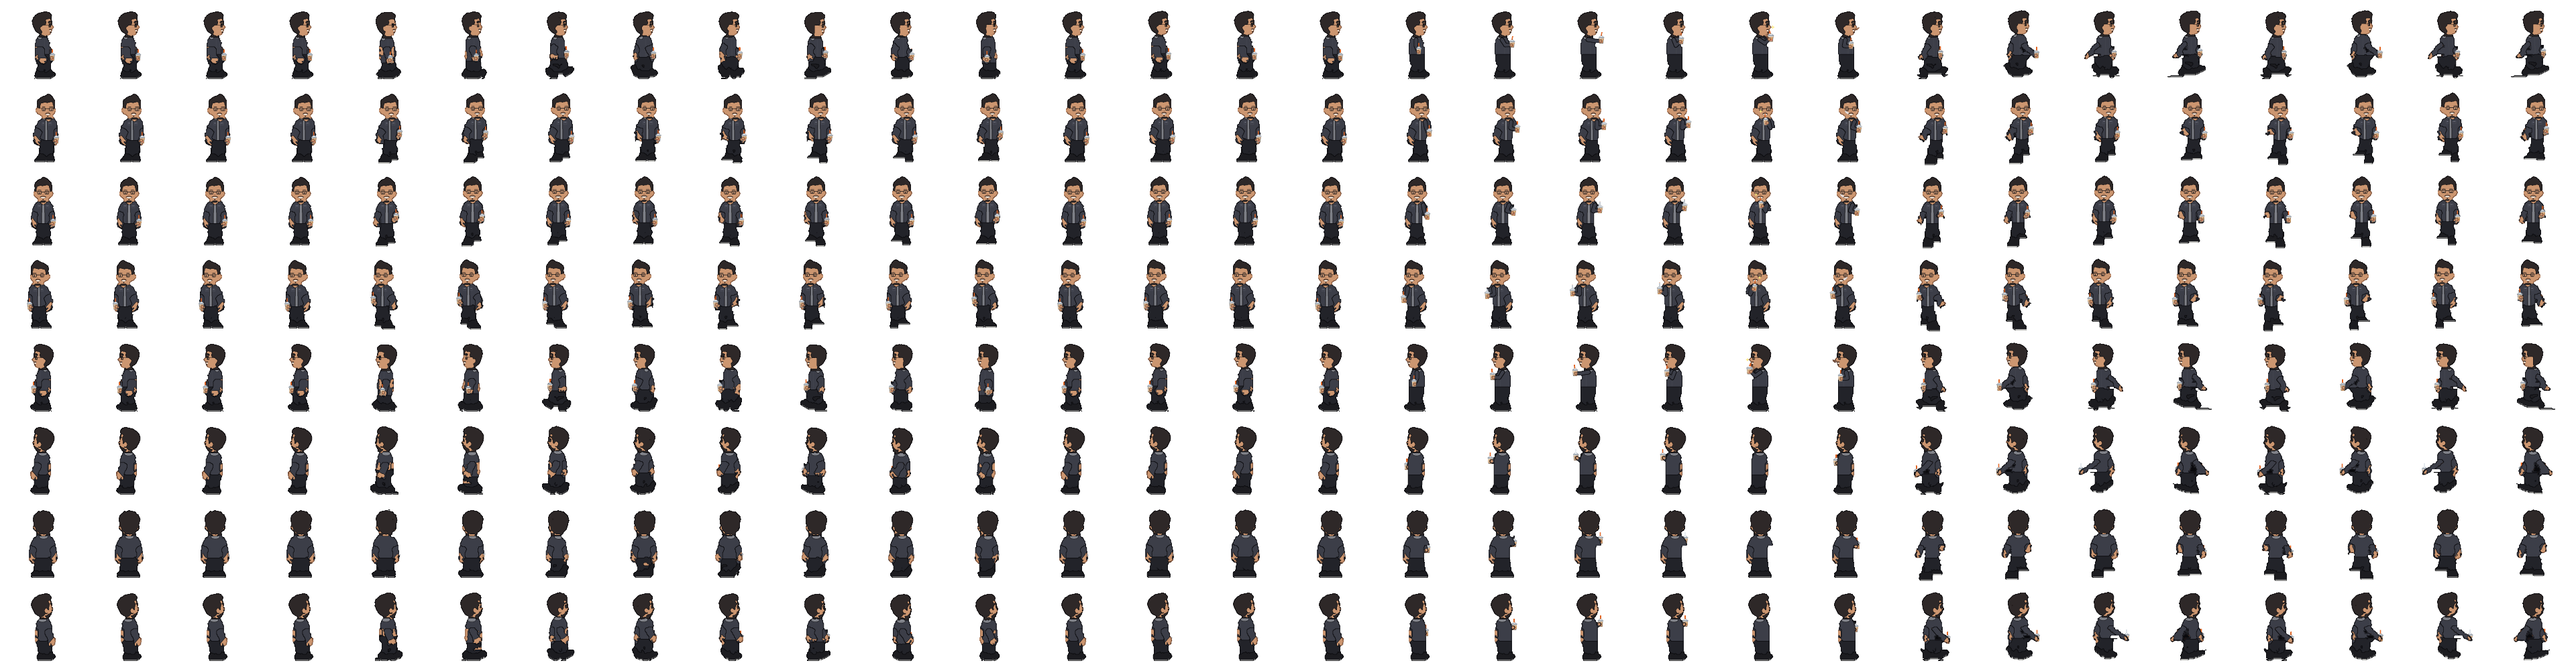
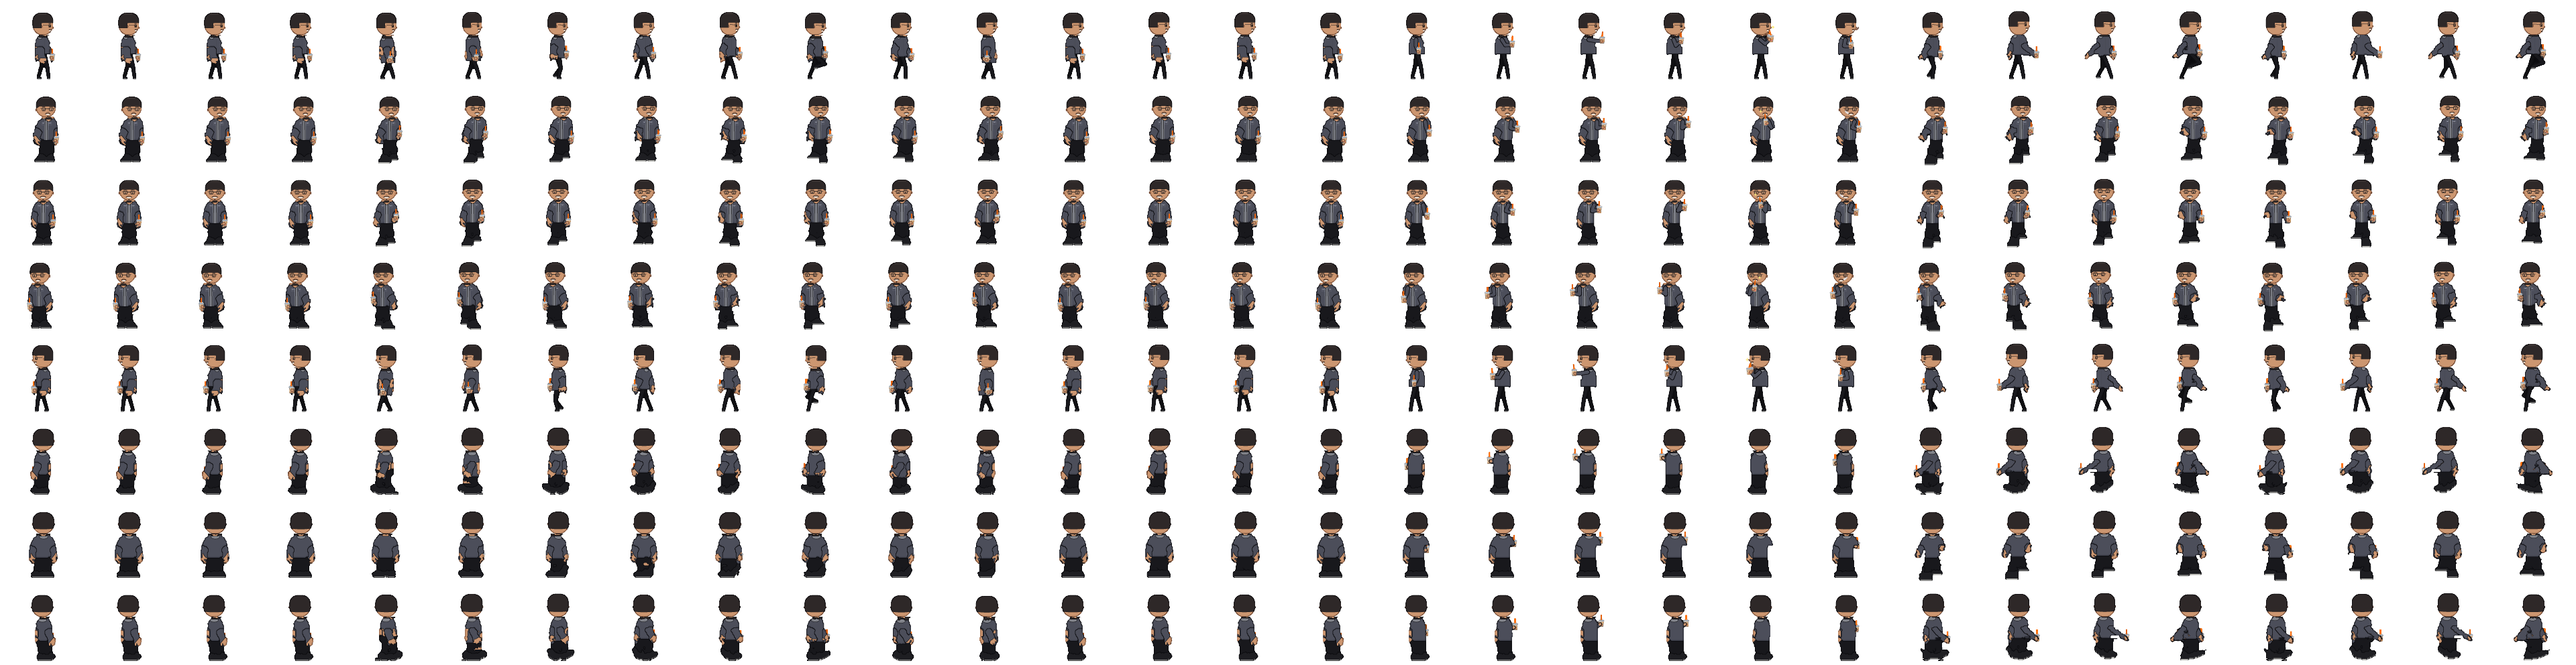
Billy: clean profile legs, adult head, orange straw, jacket/pants split, tag lean

diff --git a/phaser-tag-client/tools/make_billy_skin.py b/phaser-tag-client/tools/make_billy_skin.py
@@ -65,10 +65,10 @@ COL = {
     HAIR: (46, 40, 40),
     SKIN: (204, 150, 112),
     HAND: (204, 150, 112),
-    SLEEVE: (60, 62, 72),
-    JACKET: (60, 62, 72),
-    PANTS: (34, 35, 41),
-    SHOE: (28, 28, 32),
+    SLEEVE: (76, 78, 90),
+    JACKET: (76, 78, 90),
+    PANTS: (24, 24, 28),
+    SHOE: (30, 30, 34),
 }
 LINE = (10, 10, 13)
 SKIN_LINE = (96, 58, 40)
@@ -76,7 +76,12 @@ SKIN_SHADE = (178, 124, 90)
 SOLE = (240, 240, 234)
 SHIRT = (132, 134, 141)
 SHIRT_DARK = (104, 106, 114)
-POCKET = (78, 80, 92)
+POCKET = (96, 98, 112)
+POCKET_HI = (128, 131, 146)
+ZIP = (170, 173, 182)
+HEM = (62, 64, 75)
+PANTS_BACK = (16, 16, 19)
+HAIR_HI = (70, 62, 60)
 GLASS = (14, 14, 17)
 BROW = (34, 28, 28)
 STACHE = (40, 30, 28)
@@ -88,8 +93,8 @@ COFFEE = (198, 148, 100)
 COFFEE_LIGHT = (222, 190, 150)
 ICE = (234, 240, 244)
 LID = (242, 246, 250)
-STRAW = (244, 112, 40)
-STRAW_LINE = (168, 66, 22)
+STRAW = (255, 116, 18)
+STRAW_LINE = (178, 64, 8)
 LOGO_O = (246, 128, 40)
 LOGO_P = (238, 96, 152)
 PUFF = (252, 252, 254)
@@ -247,6 +252,18 @@ def render_body(lab, wp):
     union = F.sum(0) >= 0.5
     L = F.argmax(0) + 1
     L[~union] = BG
+    # close small notches in the jacket silhouette (between neck and hem)
+    J = np.isin(L, (JACKET, SLEEVE))
+    if J.any():
+        jr = np.nonzero(J.any(1))[0]
+        k = 2 * SS + 1
+        u8 = Image.fromarray((union * 255).astype(np.uint8))
+        closed = np.asarray(u8.filter(ImageFilter.MaxFilter(k)).filter(ImageFilter.MinFilter(k))) > 127
+        band = np.zeros_like(union)
+        band[max(int(S(wp.yn_o + 3)), jr.min()):jr.max() - SS] = True
+        add = closed & ~union & band
+        L[add] = JACKET
+        union |= add
     rgb = np.zeros(X.shape + (3,), np.uint8)
     for k, col in COL.items():
         rgb[L == k] = col
@@ -266,6 +283,154 @@ def render_body(lab, wp):
     sk_out = outline & np.isin(L, (SKIN, HAND))
     rgb[sk_out] = SKIN_LINE
     return L, union, rgb, outline | seam
+
+
+
+# --- adult head (replaces the kid's warped head) ------------------------------------
+def _rbox_sdf(X, Y, cx, cy, hw, hh, r):
+    qx = np.abs(X - cx) - hw + r
+    qy = np.abs(Y - cy) - hh + r
+    return np.hypot(np.maximum(qx, 0), np.maximum(qy, 0)) + np.minimum(np.maximum(qx, qy), 0) - r
+
+
+def rebuild_head(L, rgb, union, direction, wp, eyes_o):
+    """Swap the warped kid head (tall hair peak) for a rounder adult head with
+    short neat hair. Works at SS on L/rgb/union in place; returns the head
+    mask (SS)."""
+    H, W = L.shape
+    Y, X = np.mgrid[0:H, 0:W]
+    Xo, Yo = (X + 0.5) / SS, (Y + 0.5) / SS
+    old = np.isin(L, (HAIR, SKIN)) & (Yo < wp.yn_o)
+    if not old.any():
+        return old
+    widths = old.sum(1)
+    mw = widths.max()
+    rows = np.nonzero(widths >= 0.72 * mw)[0]
+    ys = np.nonzero(old.any(1))[0]
+    top = rows.min() / SS - 1.2
+    bot = ys.max() / SS + 0.3
+    xs = np.nonzero(old[rows].any(0))[0]
+    cxs = [np.nonzero(old[y])[0] for y in rows]
+    cx = float(np.median([(c.min() + c.max() + 1) / 2 for c in cxs])) / SS
+    hw = mw / SS / 2 * 0.97
+    hh = (bot - top) / 2
+    cy = (top + bot) / 2
+    fx = FACE[direction][0]
+    # jaw a touch narrower than the cranium
+    t = np.clip((Yo - cy) / hh, 0, 1)
+    Xs = cx + (Xo - cx) / (1 - 0.13 * t * t)
+    sdf = _rbox_sdf(Xs, Yo, cx, cy, hw, hh, min(hw, hh) * 0.8)
+    head = sdf < 0
+    # erase the old head
+    L[old] = BG
+    union[old] = False
+    if direction in PROFILE:
+        ey = eyes_o[0][1] if eyes_o else top + 0.55 * (bot - top)
+        nose = ((Xo - (cx + fx * (hw + 0.2))) / 1.1) ** 2 + ((Yo - (ey + 2.6)) / 1.4) ** 2 < 1
+        head |= nose
+    hair_cap = _rbox_sdf(Xs, Yo, cx, cy - 0.35, hw + 0.45, hh + 0.65, min(hw, hh) * 0.8) < 0
+    if direction in BACK:
+        hl = top + 0.74 * (bot - top)
+        hair = hair_cap & (Yo < hl + 1.2 * np.cos(np.clip((Xo - cx) / hw, -1, 1) * 1.4))
+        ear_y = top + 0.55 * (bot - top)
+        ears = [(cx - hw - 0.2, ear_y), (cx + hw + 0.2, ear_y)]
+    elif direction in PROFILE:
+        ey = eyes_o[0][1] if eyes_o else top + 0.55 * (bot - top)
+        hl = ey - 4.6
+        back = fx * (Xo - cx) < -hw * 0.15
+        hair = hair_cap & ((Yo < hl + 0.9 * np.clip(-fx * (Xo - cx) / hw, 0, 1)) | (back & (Yo < ey + 3.0)))
+        ears = [(cx - fx * hw * 0.12, ey + 1.0)]
+    else:
+        ey = np.mean([e[1] for e in eyes_o]) if eyes_o else top + 0.55 * (bot - top)
+        hl = ey - 4.7
+        edge = np.clip((np.abs(Xo - (cx + fx * 0.8)) / hw - 0.72) / 0.28, 0, 1)
+        hair = hair_cap & (Yo < hl + 2.6 * edge)
+        ears = [(cx - hw - 0.1, ey + 0.8), (cx + hw + 0.1, ey + 0.8)]
+        if fx:
+            ears = [ears[0] if fx > 0 else ears[1]]  # the far ear is hidden in 3/4
+    ear = np.zeros_like(head)
+    for ex_, ey_ in ears:
+        ear |= ((Xo - ex_) / 1.3) ** 2 + ((Yo - ey_) / 1.9) ** 2 < 1
+    allm = head | hair | ear
+    # do not grow over the body below the chin
+    allm &= Yo < wp.yn_o + 1.0
+    skinm = (head | ear) & ~hair
+    L[allm & skinm] = SKIN
+    L[allm & ~skinm] = HAIR
+    union |= allm
+    rgb[allm & skinm] = COL[SKIN]
+    rgb[allm & ~skinm] = COL[HAIR]
+    # a soft highlight on the hair, inner ear shade
+    hi = hair & (np.abs(Yo - (top + 0.9)) < 0.45) & (np.abs(Xo - cx + fx * 1.5) < hw * 0.45)
+    if direction not in BACK:
+        rgb[hi & allm] = HAIR_HI
+    for ex_, ey_ in ears:
+        inner_e = ((Xo - ex_) / 0.6) ** 2 + ((Yo - ey_) / 1.0) ** 2 < 1
+        rgb[inner_e & allm & ~hair] = SKIN_SHADE
+    # outlines: head silhouette, ear edge, hairline
+    u8 = Image.fromarray((allm * 255).astype(np.uint8))
+    k = int(round(0.8 * SS)) * 2 + 1
+    inner = np.asarray(u8.filter(ImageFilter.MinFilter(k))) > 127
+    out_ = allm & ~inner
+    rgb[out_ & ~skinm] = LINE
+    rgb[out_ & skinm] = SKIN_LINE
+    em = Image.fromarray((ear * 255).astype(np.uint8))
+    ein = np.asarray(em.filter(ImageFilter.MinFilter(k - 2))) > 127
+    rgb[ear & ~ein & ~hair] = SKIN_LINE
+    hs = Image.fromarray((hair * 255).astype(np.uint8)).filter(ImageFilter.MaxFilter(3))
+    hline = (np.asarray(hs) > 127) & ~hair & skinm & allm
+    rgb[hline] = LINE
+    # the neck: chin line over the neck top
+    return allm
+
+
+# --- clean profile legs -----------------------------------------------------------------
+def feet_of(lab):
+    sh = lab == SHOE
+    comps = [c for c in components8(sh) if c.sum() >= 3]
+    feet = []
+    for c in comps:
+        ys, xs = np.nonzero(c)
+        if xs.max() - xs.min() + 1 >= 11:
+            mid = np.median(xs)
+            for part in (xs < mid, xs >= mid):
+                feet.append((float(xs[part].mean() + 0.5), float(ys[part].max() + 1)))
+        else:
+            feet.append((float(xs.mean() + 0.5), float(ys.max() + 1)))
+    return feet
+
+
+def leg_layer(hip, foot, fx, back, L_leg):
+    ankle = (foot[0] - fx * 0.8, foot[1] - 2.7)
+    knee = ik(hip, ankle, L_leg * 0.5, L_leg * 0.5, -fx)
+    pc = PANTS_BACK if back else COL[PANTS]
+    toe = (foot[0] + fx * 2.5, foot[1] - 1.5)
+    heel = (foot[0] - fx * 1.4, foot[1] - 1.7)
+    parts = [
+        (capsule_fn(hip, 3.4, knee, 2.9), pc),
+        (capsule_fn(knee, 2.9, ankle, 2.5), pc),
+        (capsule_fn(heel, 1.75, toe, 1.55), COL[SHOE]),
+    ]
+    im = shapes_layer((OH, OW), parts, LINE, 0.75)
+    arr = np.asarray(im).copy()
+    Yi = np.mgrid[0:arr.shape[0], 0:arr.shape[1]][0]
+    Xi = np.mgrid[0:arr.shape[0], 0:arr.shape[1]][1]
+    sole = (arr[..., 3] > 0) & (Yi > S(foot[1] - 1.1)) & (Yi < S(foot[1] - 0.55)) & \
+           (np.abs(Xi - S((heel[0] + toe[0]) / 2)) < S(3.2))
+    arr[sole, :3] = SOLE
+    return Image.fromarray(arr, "RGBA")
+
+
+def lean(f, dx, g):
+    """shear the upper body by dx px at the head (0 at the hem)"""
+    if abs(dx) < 0.5:
+        return f
+    out = np.zeros_like(f)
+    for y in range(f.shape[0]):
+        t = np.clip((g.hem - y) / max(1, g.hem - g.top), 0, 1)
+        sft = int(round(dx * t))
+        out[y] = np.roll(f[y], sft, 0)
+    return out
 
 
 # --- details --------------------------------------------------------------------------
@@ -385,6 +550,9 @@ def torso_details(rgb, L, outline, direction, wp):
         for sd in (-1, 1):
             tline(d, [(cx + sd * (hw - 0.2), top + 1), (cx + sd * hw, bot + 1)], LINE, 0.7)
         tline(d, [(cx, top + 3.5), (cx, bot)], SHIRT_DARK, 0.5)
+        # zip teeth along both jacket edges
+        for sd in (-1, 1):
+            tline(d, [(cx + sd * (hw + 0.55), top + 2), (cx + sd * (hw + 0.75), bot - 0.5)], ZIP, 0.45)
         # hood collar round the neck
         ell(d, cx - fx * 0.5, top + 0.6, 6.6 - abs(fx) * 1.2, 2.4, SHIRT, LINE, 0.6)
         # chest pockets with flaps
@@ -395,7 +563,8 @@ def torso_details(rgb, L, outline, direction, wp):
             pw = 2.6 * k
             d.rectangle([S(pc - pw), S(py - 1.2), S(pc + pw), S(py + 3.2)], outline=POCKET, width=max(1, int(S(0.5))))
             d.rectangle([S(pc - pw), S(py - 1.2), S(pc + pw), S(py + 0.6)], fill=POCKET)
-            ell(d, pc, py + 0.2, 0.4, 0.4, (130, 132, 142))
+            tline(d, [(pc - pw + 0.3, py - 1.0), (pc + pw - 0.3, py - 1.0)], POCKET_HI, 0.45)
+            ell(d, pc, py + 0.2, 0.45, 0.45, ZIP)
     elif direction in BACK:
         ell(d, wp.hcx_o + fx * 1.0, top + 2.6, 6.4, 3.6, SHIRT, LINE, 0.6)
         tline(d, [(wp.hcx_o - 3.5, top + 3.0), (wp.hcx_o + fx * 1.0, top + 5.2), (wp.hcx_o + 3.5, top + 3.0)], SHIRT_DARK, 0.5)
@@ -405,6 +574,11 @@ def torso_details(rgb, L, outline, direction, wp):
     arr = np.asarray(im)
     m = (arr[..., 3] > 127) & J & ~outline
     rgb[m] = arr[m, :3]
+    # ribbed hem band just above the jacket bottom: a clear waistline
+    yy = np.mgrid[0:h, 0:w][0]
+    jb = np.where(J, yy, -1).max(0)
+    hem = J & (yy > jb[None, :] - S(1.6)) & (jb[None, :] > S(wp.yn_o + 12)) & ~outline
+    rgb[hem & (np.asarray(im)[..., 3] < 128)] = HEM
 
 
 def soles(rgb, L, outline):
@@ -422,7 +596,7 @@ CUP_H = 9.0
 CUP_TW, CUP_BW = 3.6, 2.7   # half widths
 
 
-def cup_layer(c, straw_tilt=0.0, shade=1.0):
+def cup_layer(c, straw_tilt=0.0, shade=1.0, sc=1.0):
     """clear iced coffee cup centred at c (out px): tan coffee with ice, dome
     lid, orange straw, small orange/pink logo"""
     im = Image.new("RGBA", (OW * SS, OH * SS), (0, 0, 0, 0))
@@ -431,9 +605,7 @@ def cup_layer(c, straw_tilt=0.0, shade=1.0):
     y0, y1 = cy - CUP_H / 2, cy + CUP_H / 2
     # straw first (behind the lid rim), tilted toward the mouth
     st = (cx + straw_tilt * 0.5, y0 - 1.6)
-    tip = (cx + straw_tilt * 5.5, y0 - 1.6 - math.sqrt(max(0.0, 6.2 ** 2 - (straw_tilt * 5) ** 2)))
-    tline(d, [st, tip], STRAW_LINE, 1.6)
-    tline(d, [st, tip], STRAW, 0.9)
+    tip = (cx + straw_tilt * 5.5, y0 - 1.6 - math.sqrt(max(0.0, 6.8 ** 2 - (straw_tilt * 5) ** 2)))
     body = [(S(cx - CUP_TW), S(y0)), (S(cx + CUP_TW), S(y0)), (S(cx + CUP_BW), S(y1)), (S(cx - CUP_BW), S(y1))]
     d.polygon(body, fill=CUP_LINE)
     ins = 0.55
@@ -456,12 +628,19 @@ def cup_layer(c, straw_tilt=0.0, shade=1.0):
                width=max(1, int(S(0.5))))
     d.rounded_rectangle([S(cx - CUP_TW - 0.5), S(y0 - 0.7), S(cx + CUP_TW + 0.5), S(y0 + 0.6)], radius=S(0.5),
                         fill=LID, outline=CUP_LINE, width=max(1, int(S(0.5))))
+    # orange straw out through the dome (drawn over the lid so it always shows)
+    st = (cx + straw_tilt * 0.3, y0 - 1.2)
+    tline(d, [st, tip], STRAW_LINE, 2.0)
+    tline(d, [st, tip], STRAW, 1.25)
+    if sc != 1.0:
+        a = 1.0 / sc
+        im = im.transform(im.size, Image.AFFINE, (a, 0, S(cx) * (1 - a), 0, a, S(cy) * (1 - a)), Image.BICUBIC)
     return im
 
 
 def straw_tip(c, tilt):
     y0 = c[1] - CUP_H / 2
-    return (c[0] + tilt * 5.5, y0 - 1.6 - math.sqrt(max(0.0, 6.2 ** 2 - (tilt * 5) ** 2)))
+    return (c[0] + tilt * 5.5, y0 - 1.6 - math.sqrt(max(0.0, 6.8 ** 2 - (tilt * 5) ** 2)))
 
 
 def arm_layer(sh, hand, elbow):
@@ -517,6 +696,9 @@ def billyfy(src_f, direction, anim, col, meta, memo, wp, idle_f):
         return np.zeros((OH, OW, 4), np.uint8)
     g = Geometry(f)
     if tag:
+        gi0 = Geometry(idle_f)
+        dx_lean = float(np.clip(g.head_cx - gi0.head_cx, -3, 3))
+        idle_f = lean(idle_f, dx_lean, gi0)
         f = tag_base(idle_f, Geometry(idle_f), direction, side, idle_f)
         # clip the hand stub tag_base leaves just under the removed arm
         fa, ia = f[..., 3] > 0, idle_f[..., 3] > 0
@@ -535,7 +717,35 @@ def billyfy(src_f, direction, anim, col, meta, memo, wp, idle_f):
         f[~keep] = 0
         g = Geometry(f)
     lab = classify(f, g, direction, min(e[1] for e in ey_src) if ey_src else None)
+    legs = []
+    if direction in PROFILE:
+        feet = feet_of(lab)
+        prow = np.nonzero((lab == PANTS).any(1))[0]
+        waist_src = prow.min() if len(prow) else g.hem - 10
+        hip_y = wp.pt((g.hip_cx, waist_src))[1] + 1.5
+        hip_x = wp.pt((g.hip_cx, waist_src))[0]
+        lab = lab.copy()
+        lab[np.isin(lab, (PANTS, SHOE))] = BG
+        if not feet:
+            feet = [(g.hip_cx, SRC_BASE)]
+        fo = [wp.pt(ft) for ft in feet]
+        if len(fo) == 1:
+            fo = [(fo[0][0] - 1.0, fo[0][1]), (fo[0][0] + 1.0, fo[0][1])]
+        fo = sorted(fo[:2], key=lambda p: fx * p[0])
+        lift = OBASE - max(p[1] for p in fo)
+        fo = [(p[0], p[1] + lift) for p in fo]
+        L_leg = (OBASE - 2.7) - hip_y + 0.6
+        for i, ft in enumerate(fo):
+            back = i == 0 if len(fo) == 2 and abs(fo[0][0] - fo[1][0]) > 1.5 else i == 0
+            h_ = (hip_x + fx * (0.9 if not back else -0.9), hip_y)
+            legs.append(pm(leg_layer(h_, (ft[0], min(ft[1], OBASE)), fx, back, L_leg)))
     L, union, rgb, lines = render_body(lab, wp)
+    eyes = eyes_of(src_f if not tag else idle_f, g if not tag else Geometry(idle_f))
+    eyes_o = [wp.pt((x, y)) + (ew,) for x, y, ew in eyes]
+    if direction not in BACK and len(eyes_o) == 0:
+        eyes_o = memo.get((direction, "eyes"), [])
+    memo[(direction, "eyes")] = eyes_o
+    rebuild_head(L, rgb, union, direction, wp, eyes_o)
     torso_details(rgb, L, lines, direction, wp)
     soles(rgb, L, lines)
     body = Image.fromarray(np.dstack([rgb, (union * 255).astype(np.uint8)]), "RGBA")
@@ -543,11 +753,6 @@ def billyfy(src_f, direction, anim, col, meta, memo, wp, idle_f):
     hm = np.isin(L, (HAIR, SKIN)) & (np.mgrid[0:L.shape[0], 0:L.shape[1]][0] < S(wp.yn_o))
     hy, hx = np.nonzero(hm)
     head_box = (hx.min() / SS, hy.min() / SS, hx.max() / SS, hy.max() / SS)
-    eyes = eyes_of(src_f if not tag else idle_f, g if not tag else Geometry(idle_f))
-    eyes_o = [wp.pt((x, y)) + (ew,) for x, y, ew in eyes]
-    if direction not in BACK and len(eyes_o) == 0:
-        eyes_o = memo.get((direction, "eyes"), [])
-    memo[(direction, "eyes")] = eyes_o
     # draw the face clipped to the head
     fl = Image.new("RGBA", body.size, (0, 0, 0, 0))
     mouth = draw_face(fl, L, direction, eyes_o, wp, head_box)
@@ -559,6 +764,11 @@ def billyfy(src_f, direction, anim, col, meta, memo, wp, idle_f):
     memo[(direction, "mouth")] = mouth
 
     out = pm(body)
+    if legs:
+        lg = legs[0]
+        for l2 in legs[1:]:
+            lg = over(lg, l2)
+        out = over(lg, out)
     behind = direction in BACK
     if tag:
         gi = g

diff --git a/phaser-tag-client/tools/check_billy_consistency.py b/phaser-tag-client/tools/check_billy_consistency.py
@@ -49,7 +49,7 @@ for r, d in enumerate(m["directions"]):
             print(f"{d} col {c}: {len(comps)} pieces"); bad += 1
         hb = np.ptp(np.nonzero((b[..., 3] > 0).any(1))[0])
         hf = np.ptp(np.nonzero(a.any(1))[0])
-        if hf <= hb + 6:
+        if hf <= hb + 4:
             print(f"{d} col {c}: not taller than James ({hf} vs {hb})"); bad += 1
         # upper torso band (James rows 54..60), cup pixels excluded; the
         # tag arm reaches out, so only the standing frames are measured
